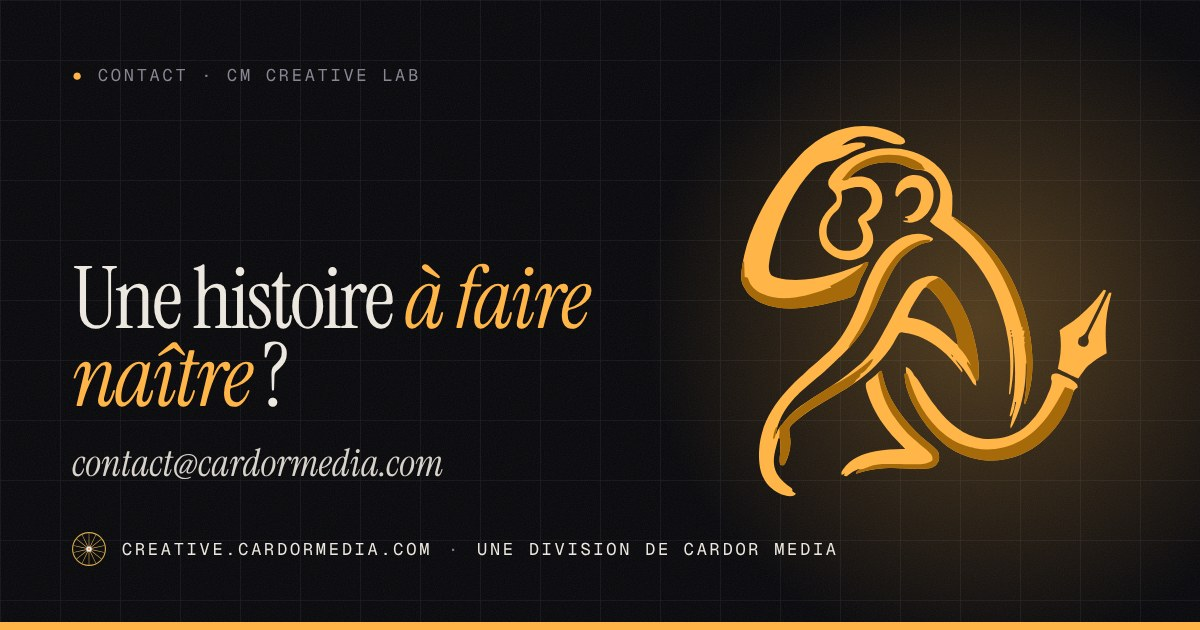
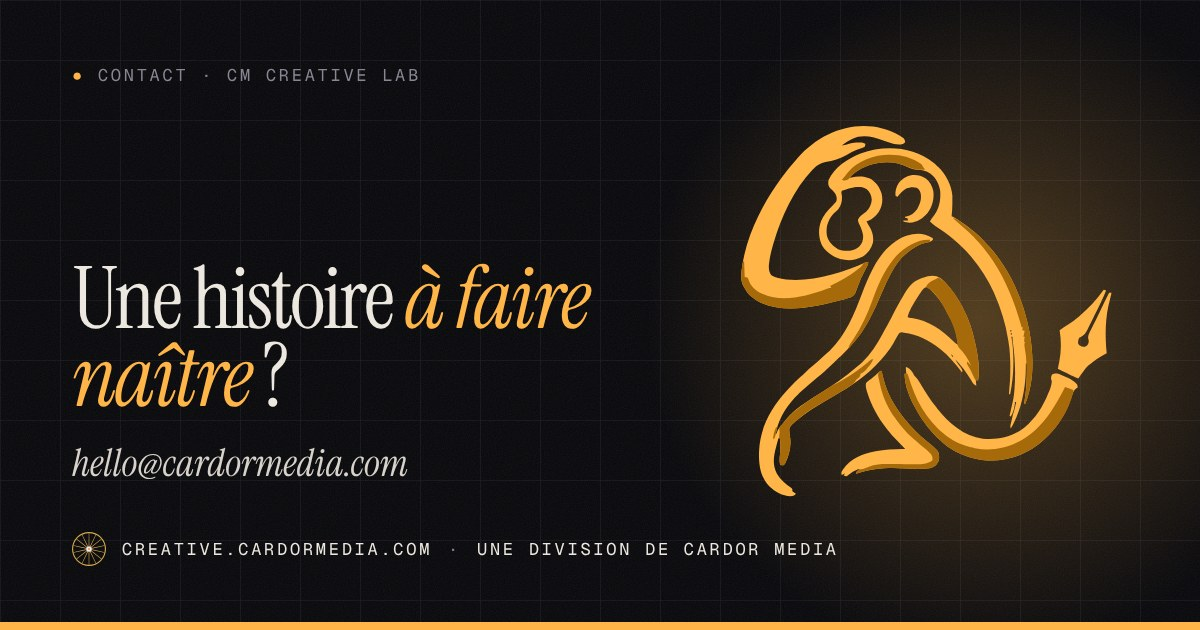
fix(divisions): contact address hello@cardormedia.com on the three studio sites
Claude-Session: https://claude.ai/code/session_01LzENS3T8qJ42BCpeBCXstf

Changed region(s): [[0.0617, 0.7238, 0.37, 0.754]]

diff --git a/src/lib/sites/config.ts b/src/lib/sites/config.ts
@@ -51,7 +51,7 @@ export const sites: Record<SiteId, SiteConfig> = {
 		signal: '#C6FF3D',
 		signalDeep: '#5B7A00',
 		coreState: 'interactive',
-		email: 'contact@cardormedia.com',
+		email: 'hello@cardormedia.com',
 		tagline: 'Des mondes que l’on habite',
 		description:
 			'CM Interactive, le studio jeux vidéo et web de CARDOR Media : jeux de stratégie et d’action jouables dans le navigateur, applications et outils métier. Forgé à Mons.',
@@ -75,7 +75,7 @@ export const sites: Record<SiteId, SiteConfig> = {
 		signal: '#7B5CFF',
 		signalDeep: '#3A2A9E',
 		coreState: 'sound',
-		email: 'contact@cardormedia.com',
+		email: 'hello@cardormedia.com',
 		tagline: 'Des mondes que l’on entend',
 		description:
 			'CM Soundworks, le studio son de CARDOR Media : sound design, doublage et voix, musique originale, mixage et mastering pour le jeu, l’animation et le web.',
@@ -99,7 +99,7 @@ export const sites: Record<SiteId, SiteConfig> = {
 		signal: '#FFB547',
 		signalDeep: '#A66A0B',
 		coreState: 'creative',
-		email: 'contact@cardormedia.com',
+		email: 'hello@cardormedia.com',
 		tagline: 'Des mondes que l’on raconte',
 		description:
 			'CM Creative Lab, l’atelier de CARDOR Media : illustration et concept art, direction artistique, écriture et lore, identités visuelles.',
